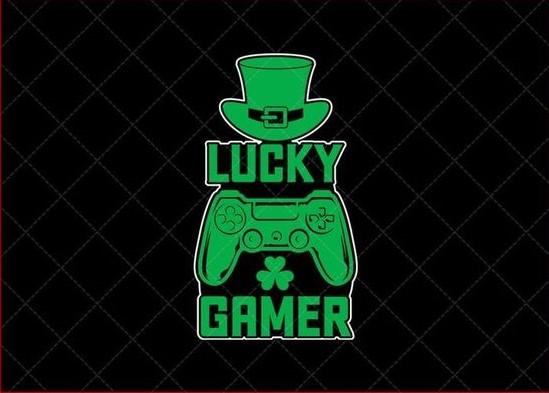
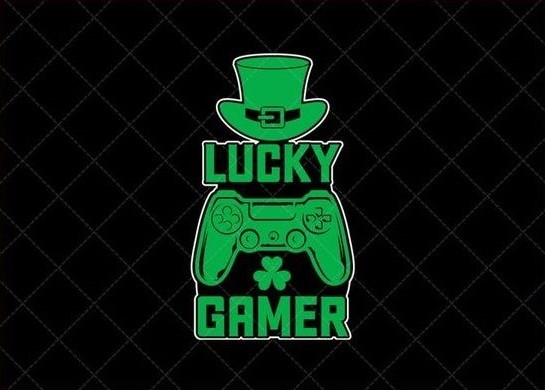
Starting to work on styles: Home page.

diff --git a/app/MyStages/MyStages.js b/app/MyStages/MyStages.js
@@ -6,7 +6,7 @@ export default function MyStages(props) {
     return(
         <>
             <section className="my-stages">
-                <article>
+                <article className='gamer-stages-h2__container'>
                     <div>
                         <h2 className='h2-mystages'>MIS ETAPAS GAMER</h2>
                     </div>
@@ -15,33 +15,32 @@ export default function MyStages(props) {
                     <div>
                         <h3>LEVEL 1: El despertar de una afición.</h3>
                         <p className="img-container press-start_container">
-                        <Image
-                            src="/imgs/press-start.jpg"
-                            alt="press start"
-                            width={563}
-                            height={462}    
-                        />
+                            <Image
+                                src="/imgs/press-start.jpg"
+                                alt="press start"
+                                width={563}
+                                height={462}
+                            />
                         </p>
                         <p>Cuando antes escribí “desde que tengo uso de razón”, ¡lo decía de forma literal!</p>
                         <p>Estaba muy joven cuando tuve mi primera consola y los recuerdos del uso que le di son pocos y no muy claros...</p>
-                        <p>O quizás solo debería esforzarme más para extraerlos de mi subconsciente o dondequiera que estén... Bueno, a lo mejor muchos de esos recuerdos irán saliendo a flote mientras escribo todo esto...</p>
                         <p>
-                            <Link href="/levels/level1">Leer más...</Link>
+                            <Link className='stages-link' href="/levels/level1">Leer más...</Link>
                         </p>				
                     </div>
                 </article>
                 <article>
                     <div>
                         <h3>LEVEL 2: Crece el afecto.</h3>
-                        <p className="img-container">
+                        <p className="img-container health-bar__container">
                             <Image
                                 src="/imgs/health-bar.png"
                                 alt="Health bar"
                                 width={627}
-                                height={587}    
+                                height={587}
                             />
                         </p>
-                        <p>Por increíble que parezca, de esta nueva consola no recuerdo la experiencia de cuando me la dieron. Puedo calcular que ocurrió cuando tenía entre 8 y 9 años de edad (1989 - 1990) y para no andar con muchos rodeos, directamente diré que fue una...</p>
+                        <p>Por increíble que parezca, de esta nueva consola no recuerdo la experiencia de cuando me la dieron. Puedo calcular que ocurrió cuando tenía entre 8 y 9 años de edad...</p>
                         <p>
                             <Link href="/levels/level2">Leer más...</Link>
                         </p>
@@ -50,15 +49,15 @@ export default function MyStages(props) {
                 <article>
                     <div>
                         <h3>LEVEL 3: Mi periodo en "las maquinitas".</h3>
-                        <p className="img-container">
+                        <p className="img-container game-room__container">
                             <Image
                                 src="/imgs/game-room.jpg"
                                 alt="Game Room"
                                 width={564}
-                                height={564}    
+                                height={564}
                             />
                         </p>
-                        <p>A finales de los '80 e inicios de los '90, llega la <span className="bold-italic">cuarta generación de consolas</span> a Norte América. Cuando empiezo el bachillerato en 1994 con 13 años de edad, tengo por primera vez acceso a una consola de...</p>
+                        <p>A finales de los '80 e inicios de los '90, llega la <span className="bold-italic">cuarta generación de consolas</span> a Norte América. Cuando empiezo el bachillerato con 13 años de edad, tengo por primera vez acceso a...</p>
                         <p>
                             <Link href="/levels/level3">Leer más...</Link>
                         </p>
@@ -67,15 +66,15 @@ export default function MyStages(props) {
                 <article>
                     <div>
                         <h3>LEVEL 4: Un poco más de maquinitas y un gran golpe de suerte.</h3>
-                        <p className="img-container">
+                        <p className="img-container lucky-gamer__container">
                             <Image
                                 src="/imgs/lucky-gamer.jpg"
                                 alt="Lucky Gamer"
-                                width={549}
-                                height={393}    
+                                width={545}
+                                height={390}
                             />
                         </p>
-                        <p>Ya a mediados de los '90, comienza lo que en mi opinión fue uno de los puntos de inflexión más fuertes en la industria. Inicia la <span className="bold-italic">quinta generación de consolas</span> trayendo consigo los gráficos en 3D que tanto nos asombraron y emocionaron...</p>
+                        <p>Ya a mediados de los '90, comienza lo que en mi opinión fue uno de los puntos de inflexión más fuertes en la industria. Inicia la <span className="bold-italic">quinta generación de consolas</span>...</p>
                         <p>
                             <Link href="/levels/level4">Leer más...</Link>
                         </p>
@@ -84,12 +83,12 @@ export default function MyStages(props) {
                 <article>
                     <div>
                         <h3>LEVEL 5: Juego pausado.</h3>
-                        <p className="img-container">
+                        <p className="img-container pause-container">
                             <Image
                                 src="/imgs/pause.png"
                                 alt="paused game"
                                 width={300}
-                                height={168}    
+                                height={168}
                             />
                         </p>
                         <p>La <span className="bold-italic">sexta generación de consolas</span>, ya mencionada en mi etapa anterior, arribó a finales de los '90 e inicio de los 2000. Como comenté, ésta pasó casi por debajo de la mesa para mí...</p>
@@ -101,15 +100,15 @@ export default function MyStages(props) {
                 <article>
                     <div>
                         <h3>LEVEL 6: Un tímido reinicio.</h3>
-                        <p className="img-container">
+                        <p className="img-container never-quit">
                             <Image
                                 src="/imgs/never-quit.jpg"
                                 alt="Gamers never quit"
                                 width={564}
-                                height={564}    
+                                height={564}
                             />
                         </p>
-                        <p>La <span className="bold-italic">séptima generación de consolas</span> ya estaba en marcha desde 2005-2006. Yo venía con la inercia de mi floja etapa anterior y, luego de algunos años, mi esposa vio la oportunidad de encarrilarme de nuevo al mundo gamer...</p>
+                        <p>La <span className="bold-italic">séptima generación de consolas</span> ya estaba en marcha. Yo venía con la inercia de mi floja etapa anterior y, luego de algunos años, mi esposa vio la oportunidad de encarrilarme de nuevo al mundo gamer...</p>
                         <p>
                             <Link href="/levels/level6">Leer más...</Link>
                         </p>
@@ -118,15 +117,15 @@ export default function MyStages(props) {
                 <article>
                     <div>
                         <h3>LEVEL 7: Algo bueno dentro de lo malo.</h3>
-                        <p className="img-container">
+                        <p className="img-container controllers">
                             <Image
                                 src="/imgs/controllers.jpg"
                                 alt="Emulators"
                                 width={313}
-                                height={161}    
+                                height={161}
                             />
                         </p>
-                        <p>Entre 2019 y 2020 comienza la pandemia debida al COVID-19. Durante esos momentos de aislamiento, había que recurrir a muchas formas de entretenimiento para poder mantener la cordura a niveles más o menos decentes. Fue en este periodo que descubrí la existencia de algo en mi opinión maravilloso...</p>
+                        <p>Entre 2019 y 2020 comienza la pandemia debida al COVID-19. Fue en este periodo que descubrí la existencia de algo en mi opinión maravilloso...</p>
                         <p>
                             <Link href="/levels/level7">Leer más...</Link>
                         </p>
@@ -135,15 +134,15 @@ export default function MyStages(props) {
                 <article>
                     <div>
                         <h3>LEVEL 8: Comienza la redención.</h3>
-                        <p className="img-container">
+                        <p className="img-container gamer-on__container">
                             <Image
                                 src="/imgs/gamer-on.jpg"
                                 alt="Gamer mode on"
                                 width={564}
-                                height={564}    
+                                height={564}
                             />
                         </p>
-                        <p>Después de pasar varios meses como adicto jugando en emuladores a cuanto juego se me venía a la mente, decidí organizarme un poco. Me determiné a jugar las sagas de videojuegos que me gustaron en el pasado, todas esas que comencé desde su primer producto y que no pude continuar, o que comencé con algún juego intermedio sin saber que hubo juegos antes y después de ese.</p>
+                        <p>Después de pasar varios meses como adicto jugando a cuanto juego se me venía a la mente, decidí organizarme un poco. Me determiné a jugar las sagas de videojuegos que me gustaron en el pasado...</p>
                         <p>
                             <Link href="/levels/level8">Leer más...</Link>
                         </p>
@@ -152,16 +151,16 @@ export default function MyStages(props) {
                 <article>
                     <div>
                         <h3>LEVEL 9: Poniéndome al día.</h3>
-                        <p className="img-container">
+                        <p className="img-container gamer-forever">
                             <Image
                                 src="/imgs/gamer-forever.jpg"
                                 alt="Gamer forever"
                                 width={564}
-                                height={564}    
+                                height={564}
                             />
                         </p>
                         <p>¡Llegamos al presente!</p>
-                        <p>Después de tantos años desconectado de este hermoso mundo de los videojuegos, llegaba la hora de despertar y al fin desquitarme, jajaja. No sé si tendré el tiempo suficiente para lograr el cometido que me propuse, lo que sí sé es que me voy a divertir intentándolo.</p>
+                        <p>Después de tantos años desconectado de este hermoso mundo de los videojuegos, llegaba la hora de despertar y al fin desquitarme...</p>
                         <p>
                             <Link href="/levels/level9">Leer más...</Link>
                         </p>

diff --git a/app/MyStages/mystages.css b/app/MyStages/mystages.css
@@ -3,24 +3,77 @@
     margin-bottom: 0;
 }
 
+.gamer-stages-h2__container {
+	padding-bottom: 0;
+}
 
 .img-container {
 	width: 28rem;
 	height: 28rem;
-	border-radius: 0.5rem;
+	border-radius: 1rem;
 	overflow: hidden;
 	display: flex;
 	justify-content: center;
 	align-items: center;
-    background-color: var(--black-blue);
+}
+/* 
+.stages-link {
+	text-decoration: none;
+	background-color: var(--tone-4);
+	color: var(--white);
+	padding: 0.3rem;
+	border-radius: 0.5rem;
+} */
+
+.press-start_container, .game-room__container {
+	background-color: var(--black);
+}
+
+.health-bar__container {
+	background-color: var(--white);
+}
+
+.lucky-gamer__container {
+	background-color:#020202;
+}
+
+.pause-container {
+	background-color: #0f0f0f;
+}
+
+.controllers {
+	background-color: #787878;
+}
+
+.gamer-on__container, .never-quit {
+	border: 0.2rem solid var(--black);
+}
+
+.gamer-forever {
+	background-color: #262d3a;
 }
 
 .img-container img {
-	width: 100%;
+	width: 90%;
     height: auto;
-	transition: 0.3s ease all;
+	transition: 0.9s ease all;
 }
 
 .img-container img:hover {
-    width: 110%;
+    width: 120%;
 }
+
+@media (min-width: 700px) {
+	.img-container {
+		width: 35rem;
+		height: 35rem;
+		margin-left: auto;
+		margin-right: auto;
+	}
+}
+
+/* @media (min-width: 1024px) {
+	article {
+		width: 80rem;
+	}
+} */

diff --git a/app/layout.js b/app/layout.js
@@ -1,8 +1,14 @@
-import { Roboto_Condensed } from 'next/font/google';
+// import { Roboto_Condensed } from 'next/font/google';
 import { Press_Start_2P } from 'next/font/google';
+import { Bai_Jamjuree } from 'next/font/google';
 import './globals.css';
 
-const roboto_condensed = Roboto_Condensed({
+// const roboto_condensed = Roboto_Condensed({
+//   subsets: ['latin'],
+//   weight: '400',
+// });
+
+const bai_jamjuree = Bai_Jamjuree({
   subsets: ['latin'],
   weight: '400',
 });
@@ -27,7 +33,7 @@ export default function RootLayout({ children }) {
       <head>
         <meta httpEquiv="X-UA-Compatible" content="IE=edge"/>{/*Agrego la etiqueta head aquí para poder agregar la etiqueta meta de http-equiv, la cual no está soportada por Next JS*/}
       </head>
-      <body className={roboto_condensed.className}>{children}</body>
+      <body className={bai_jamjuree.className}>{children}</body>
     </html>
   )
 }

diff --git a/app/globals.css b/app/globals.css
@@ -27,6 +27,9 @@ html {
 	--tone-3: #294E7F;
 	--tone-4: #1C3557;
 
+	--black: #000000;
+	--white: #ffffff;
+
 	--small-font: 1.2rem;
 	--medium-font: 1.6rem;
 	--lg-font: 2rem;
@@ -45,9 +48,10 @@ section {
 }
 
 article {
-  	width: 100%;
+  	/* width: 100%; */
 	padding: 3rem 1rem;
 	width: 30rem;
+	margin: 0 auto;
 }
 
 h2 {
@@ -57,7 +61,7 @@ h2 {
 }
 
 h3 {
-	text-align: center;
+	/* text-align: center; */
 	padding-top: 3rem;
 }
 
@@ -122,13 +126,16 @@ p {
 }
 
 @media (min-width: 700px) {
-	section {
-		max-width: 68rem;
+	main {
+		font-size: var(--lg-font);
+	}
+	article {
+		width: 68rem;
 	}
 }
 
 @media (min-width: 1024px) {
-	section {
-		max-width: 80rem;
+	article {
+		width: 90rem;
 	}
 }

diff --git a/app/AboutMe/aboutme.css b/app/AboutMe/aboutme.css
@@ -10,7 +10,11 @@
 
 .intro {
 	position: relative;
-	height: 60rem;
+	height: 66rem;
+}
+
+.intro p {
+	font-weight: bold;
 }
 
 .intro img {
@@ -20,14 +24,26 @@
 	/* width: auto; */
 	height: auto;
 	position: absolute;
-	top: 0;
-	left: calc(50% - 14.9rem);
+	top: calc(50% - 22.145rem);
+	left: calc(50% - 14rem);
 	z-index: -1;
-	opacity: 0.5;
+	opacity: 0.3;
 }
 
-/* @media (min-width: 700px) {
-	.intro img {
-		max-width: 33.7rem;
+@media (min-width: 700px) {
+	.intro {
+		height: 50rem;
 	}
-} */
+	.intro img {
+		width: 28rem;
+	}
+}
+
+@media (min-width: 1024px) {
+	.intro {
+		height: 43rem;
+	}
+	/* .intro img {
+		width: 28rem;
+	} */
+}
